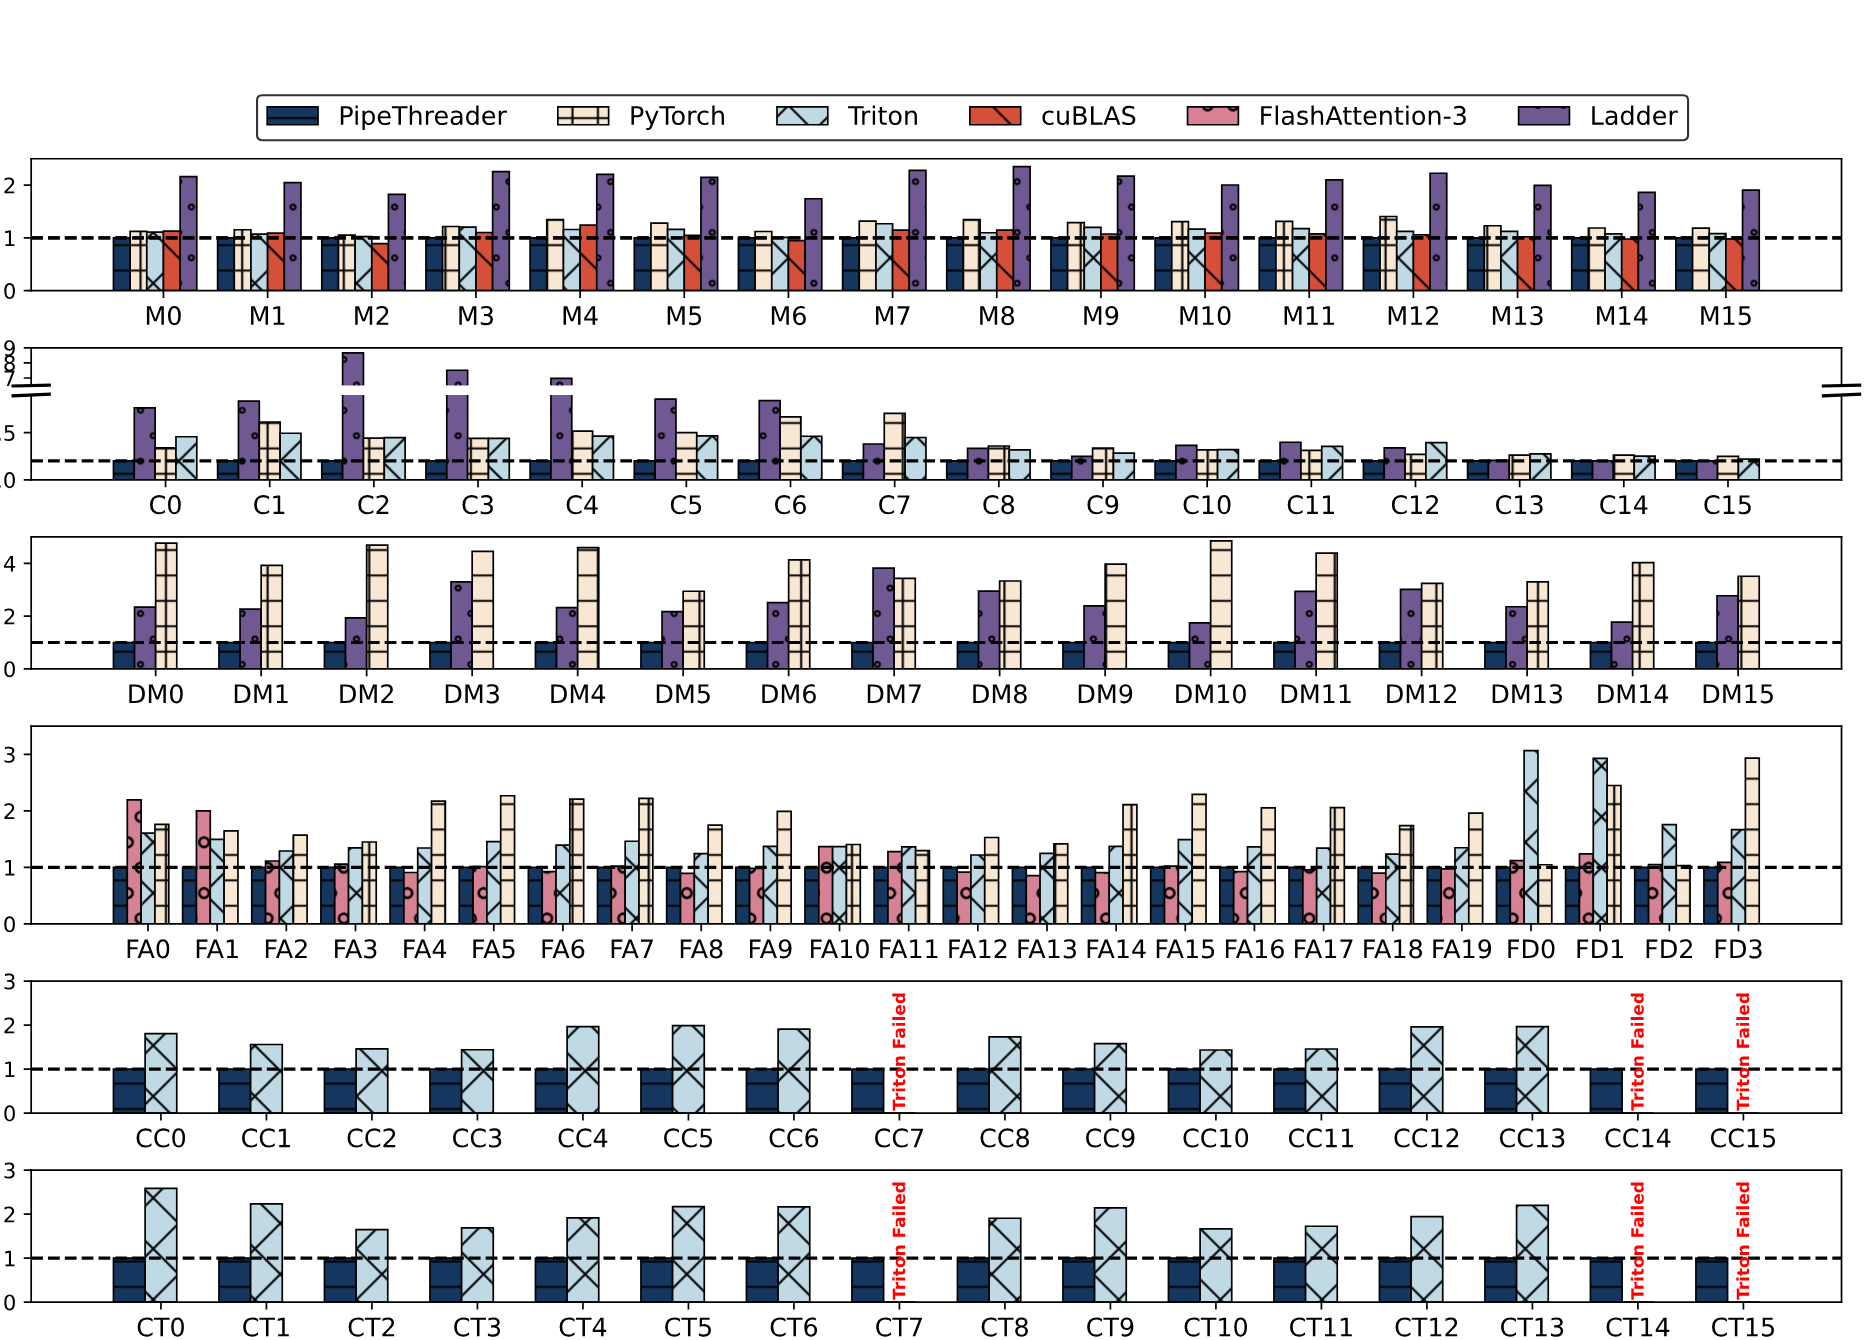
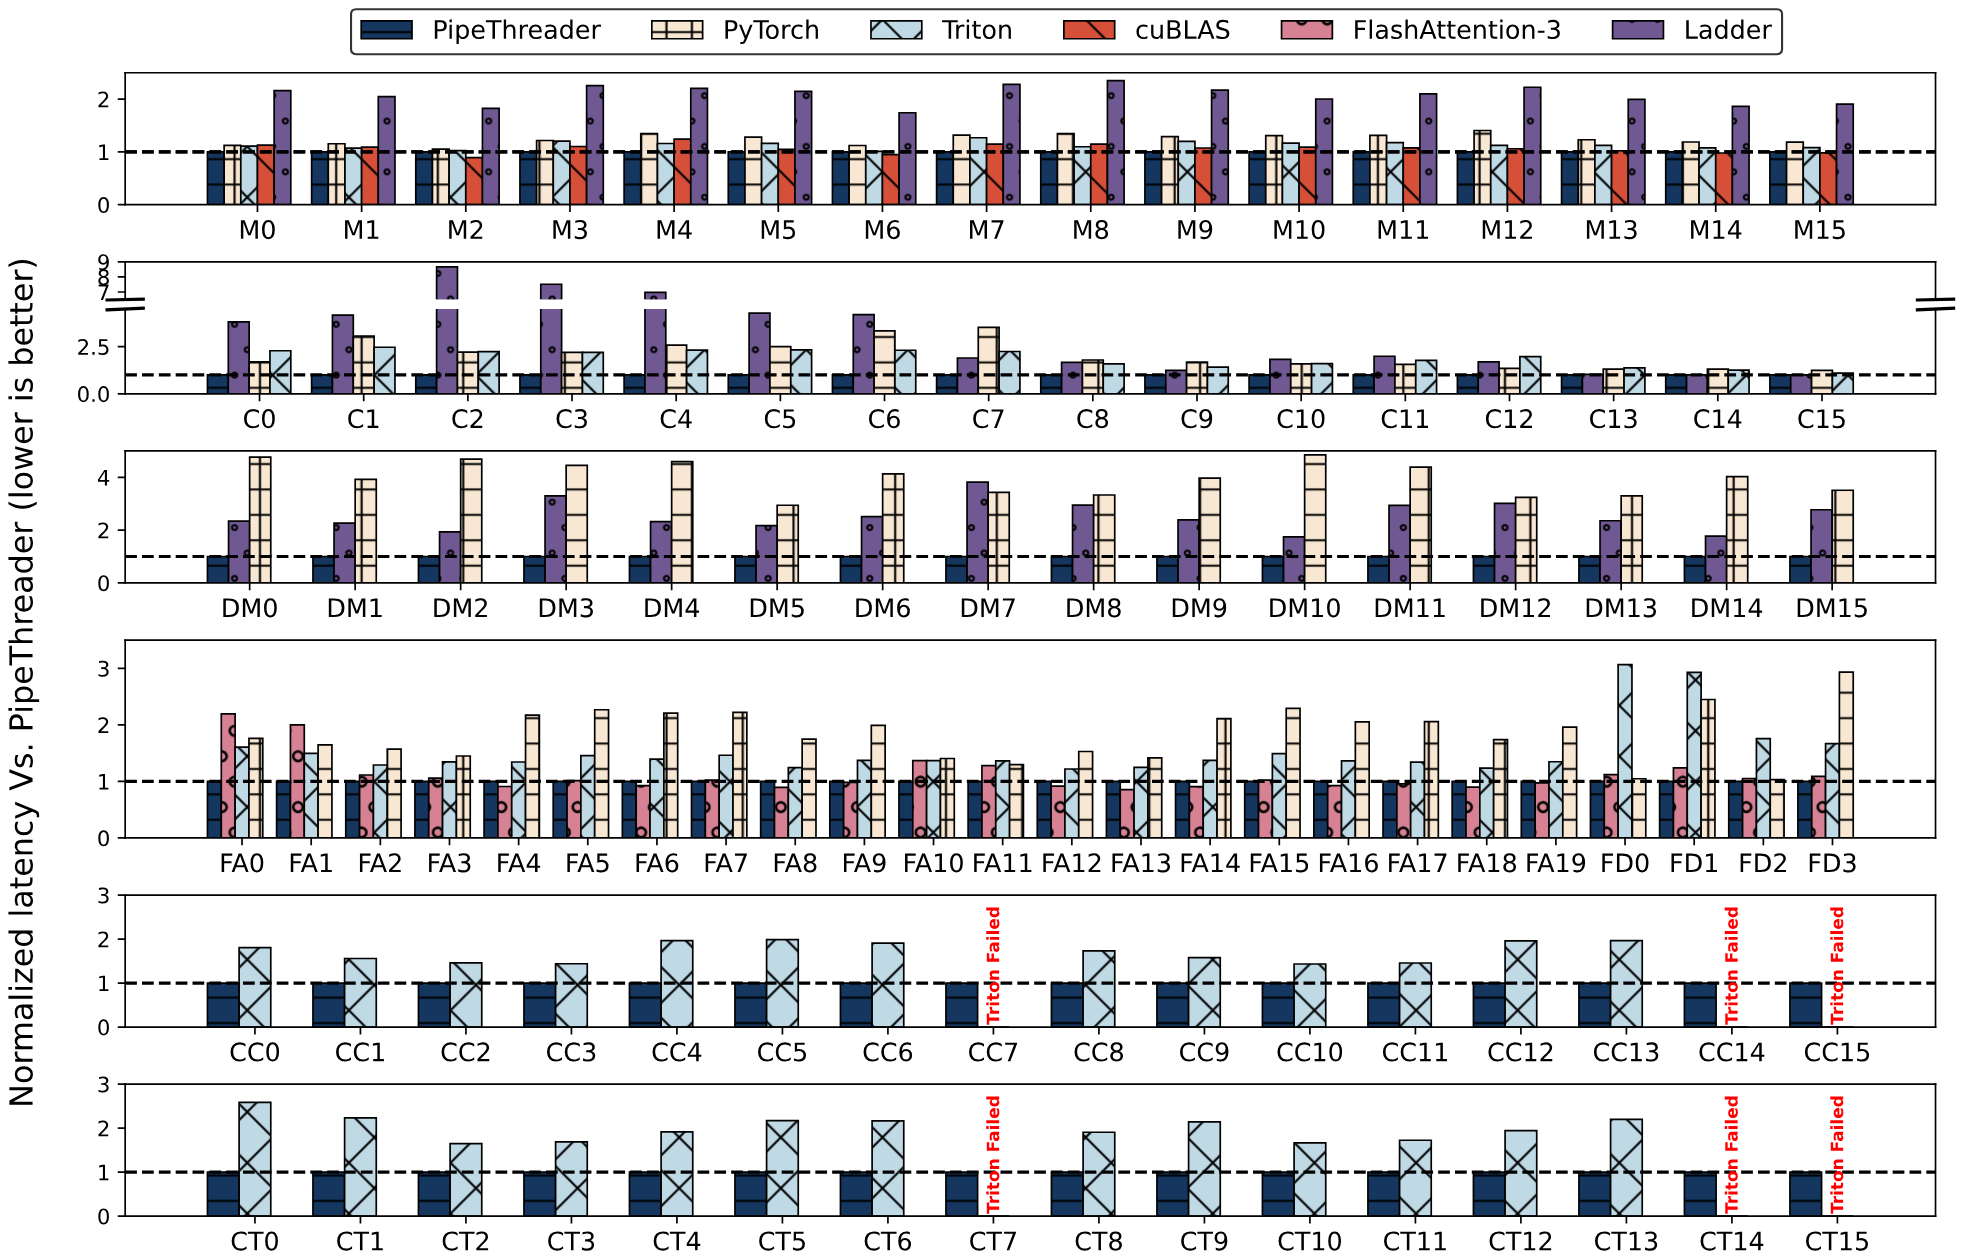
docs: fix PipeThreader figure crops

diff --git a/skills/add-paper/SKILL.md b/skills/add-paper/SKILL.md
@@ -89,7 +89,7 @@ Turn one arXiv identifier into a source-faithful three-language ASa Book reading
 3. Never recreate a paper table with Markdown or HTML table markup. Crop the complete published table directly from the paper PDF and render it at scale 4 or higher, even when source TeX or extracted cell text is available.
 4. Reuse identical table pixels across all three languages. Localize only the alt text and caption; keep semantic context there without transcribing or reconstructing the table cells.
 5. Prefer original source assets for figures only when they are at least as sharp as a PDF crop rendered at scale 4. When PDF rendering is necessary, use `npm run paper:refresh-screenshots -- --write --scale 4 <slug>`; scale 4 (about 288 DPI) is the minimum, not a suggested default.
-6. Remove excessive surrounding whitespace. Preserve labels, legends, axes, table footnotes, and border strokes; add only a small consistent safety margin.
+6. Crop every screenshot to the complete figure or table body. Preserve every panel, label, legend, axis, table footnote, border stroke, and subfigure description that belongs to the visual object; never include the printed figure or table caption or surrounding explanatory prose when that text is reproduced in Markdown. Remove excessive whitespace, leave a small consistent safety margin on all four sides, and confirm that no meaningful stroke or glyph touches the crop edge.
 7. Never enlarge, resample, sharpen, or re-encode an old low-resolution PNG as a substitute for rendering the PDF or using a higher-resolution source asset. A retained source asset must have at least four pixels per PDF point at its displayed PDF size in both dimensions.
 8. Keep the reproducible crop metadata in `scripts/paper-crops/<slug>.json`. Every local PNG referenced by the page must have one metadata entry; use `preserveSource: true` only when the source-density requirement above is met.
 9. Compare every cropped asset with the PDF at actual pixels. Pay particular attention to multi-panel figures and dense tables, where automatic matching or trimming can select the wrong panel or remove meaningful edge content.

diff --git a/skills/add-paper/references/style-guide.md b/skills/add-paper/references/style-guide.md
@@ -135,8 +135,8 @@ Example:
 - Never typeset a paper table with Markdown or HTML table markup. Always crop the complete table directly from the published PDF, even when source TeX or extracted cell text is available.
 - Render every PDF-derived figure or table screenshot at scale 4 or higher (about 288 DPI). Keep `scripts/paper-crops/<slug>.json` so the crop is reproducible, and require every referenced local PNG to have a metadata entry.
 - Retain an original source image only when it supplies at least four pixels per PDF point at the size used in the paper. Never upscale or sharpen an existing low-resolution PNG in place of a fresh PDF render or a genuinely higher-resolution source.
-- Crop screenshots to the figure or table itself. Remove page headers, body text, captions that will be recreated in Markdown, and excessive white margins.
-- Retain a small safety margin so lines and labels at the boundary are not clipped.
+- Crop screenshots to the complete figure or table body. Preserve every panel, label, legend, axis, table footnote, border stroke, and subfigure description that belongs to the visual object.
+- Remove page headers, body text, printed captions or surrounding explanations that will be recreated in Markdown, and excessive white margins. Retain a small consistent safety margin on all four sides, and confirm that no meaningful stroke or glyph touches the crop edge.
 - Use lossless PNG for diagrams, plots, and tables. Avoid JPEG artifacts on text and thin lines.
 - Use stable two-digit numbering: `figure-01.png`, `table-01.png`.
 - Verify image dimensions against the scale-4 crop dimensions and inspect the actual pixels after cropping. File existence alone is not sufficient; pay special attention to low-confidence template matches and visually similar subfigures.
